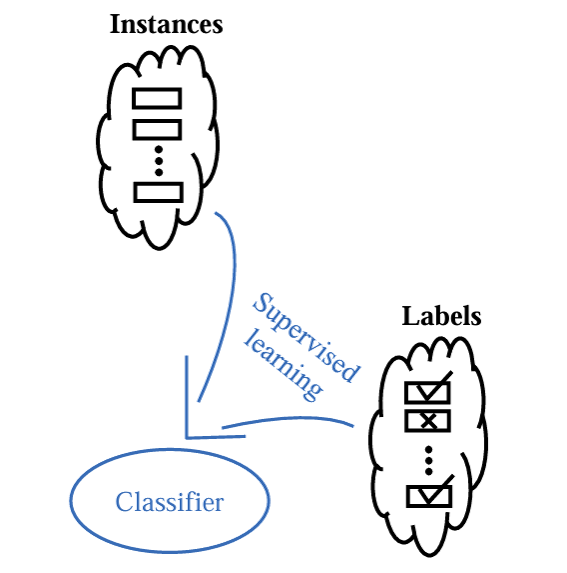
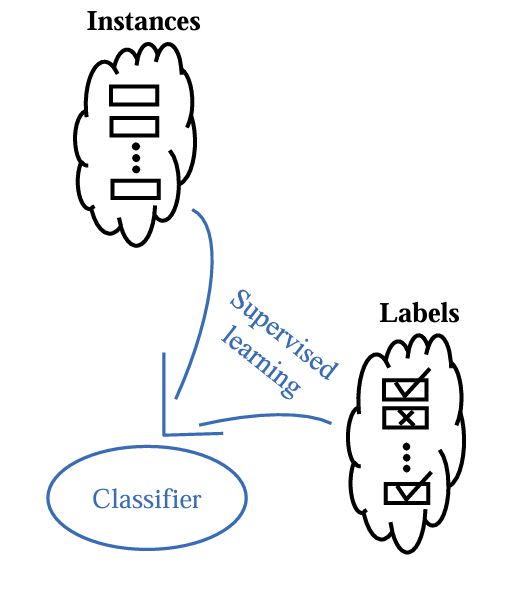
[DOC] change img size

Changed region(s): [[0.0911, 0.3857, 0.9108, 0.9791], [0.1214, 0.0, 0.3947, 0.445]]

diff --git a/docs/Overview/Abductive-Learning.rst b/docs/Overview/Abductive-Learning.rst
@@ -10,7 +10,7 @@ aiming to accurately predict the unseen data instances.
 
 .. image:: ../img/ML.png
    :align: center
-   :width: 300px
+   :width: 280px
 
 In **Abductive Learning (ABL)**, we assume that, in addition to data, 
 there is also a knowledge base :math:`\mathcal{KB}` containing
